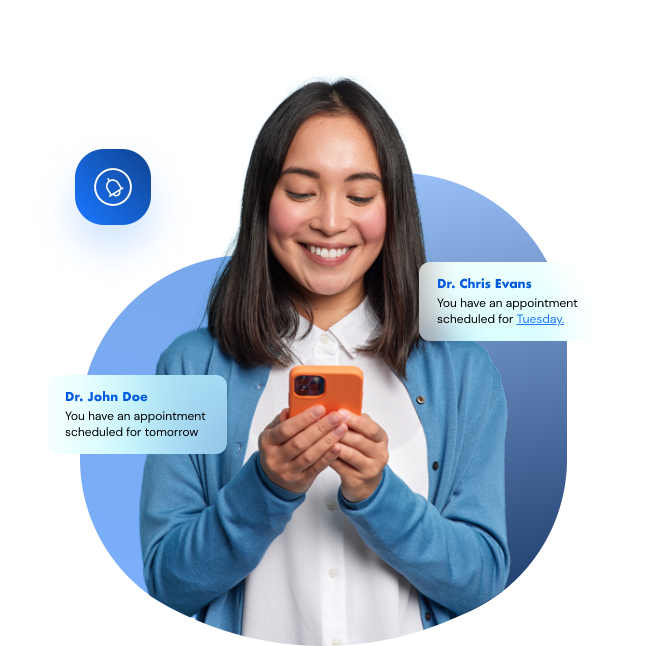
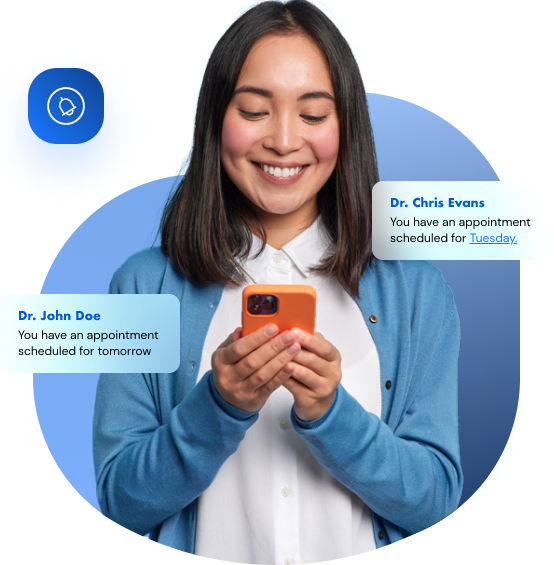
Add CSS to the title section

diff --git a/index.html b/index.html
@@ -5,6 +5,12 @@
   <meta charset="utf-8">
   <title>Doctor Website</title>
 
+  <!-- Google Fonts -->
+   <link rel="icon" href="favicon.ico">
+  <link rel="preconnect" href="https://fonts.googleapis.com">
+  <link rel="preconnect" href="https://fonts.gstatic.com" crossorigin>
+  <link href="https://fonts.googleapis.com/css2?family=DM+Sans:wght@400;700&display=swap" rel="stylesheet">
+
   <!-- CSS Stylesheets -->
   <link href="https://cdn.jsdelivr.net/npm/bootstrap@5.1.3/dist/css/bootstrap.min.css" rel="stylesheet" integrity="sha384-1BmE4kWBq78iYhFldvKuhfTAU6auU8tT94WrHftjDbrCEXSU1oBoqyl2QvZ6jIW3" crossorigin="anonymous">
   <link rel="stylesheet" href="css/styles.css">
@@ -17,43 +23,44 @@
   <script src="https://cdn.jsdelivr.net/npm/@popperjs/core@2.10.2/dist/umd/popper.min.js" integrity="sha384-7+zCNj/IqJ95wo16oMtfsKbZ9ccEh31eOz1HGyDuCQ6wgnyJNSYdrPa03rtR1zdB" crossorigin="anonymous"></script>
   <script src="https://cdn.jsdelivr.net/npm/bootstrap@5.1.3/dist/js/bootstrap.min.js" integrity="sha384-QJHtvGhmr9XOIpI6YVutG+2QOK9T+ZnN4kzFN1RtK3zEFEIsxhlmWl5/YESvpZ13" crossorigin="anonymous"></script>
 
+
 </head>
 
 <body>
-  <section id="title">
+  <section class="colored-section" id="title">
     <div class="container-fluid">
 
       <!-- Nav Bar -->
       <nav class="navbar navbar-expand-lg navbar-dark">
-        <a class="navbar-brand" href="">HIPAATEXTS.COM</a>
+        <a class="navbar-brand text-dark" href=""><i class="far fa-comment-alt"></i><strong> HIPAA</strong>TEXTS.COM</a>
+        <img class="top-img" src="Images/Mask Group 2.png" alt="mask-group 2">
         <button class="navbar-toggler" type="button" data-toggle="collapse" data-target="#navbarSupportedContent" aria-controls="navbarSupportedContent" aria-expanded="false" aria-label="Toggle navigation">
           <span class="navbar-toggler-icon"></span>
         </button>
         <div class="collapse navbar-collapse" id="navbarSupportedContent">
           <ul class="navbar-nav ml-auto">
             <li class="nav-item">
-              <a class="nav-link" href="#footer">What We Do</a>
+              <a class="nav-link text-dark" href="#footer">What We Do</a>
             </li>
             <li class="nav-item">
-              <a class="nav-link" href="#pricing">About</a>
+              <a class="nav-link text-dark" href="#pricing">About</a>
             </li>
             <li class="nav-item">
-              <a class="nav-link" href="#cta">Pricing</a>
+              <a class="nav-link text-dark" href="#cta">Pricing</a>
             </li>
           </ul>
-          <div class="vr"></div>
-          <a class="btn" href="#">Get a quote -></a>
+          <a class="nav-link btn btn-primary btn-lg rounded-pill text-light" href="#">Get a quote -></a>
         </div>
       </nav>
 
       <!-- Title -->
 
       <div class="row">
-        <div class="col-lg-6">
+        <div class="col-lg-6 title">
           <h2>HIPAATEXTS</h2>
-          <h1 class="">eliminate patient no-shows once and for all</h1>
+          <h1 class="main-heading">eliminate patient no-shows once and for all</h1>
           <p>We've got your back. We'll remind you on time</p>
-          <button type="button" class="btn btn-primary btn-lg rounded-pill">Get a quote -></button>
+          <button type="button" class="btn btn-primary btn-lg rounded-pill quote-button">Get a quote -></button>
         </div>
         <div class="col-lg-6">
           <img class="title-image" src="images/Group 18.png" alt="group18-mockUp">
@@ -64,7 +71,7 @@
   <section id="cta">
     <div class="row">
       <div class="col-lg-6">
-        <img class="title-image" src="images/Group 19.png" alt="group19-mockUp">
+        <img class="" src="images/Group 19.png" alt="group19-mockUp">
       </div>
       <div class="col-lg-6">
         <h1 class="">why hipaatexts?</h1>
@@ -83,7 +90,7 @@
   <section id="features">
     <div class="row">
       <div class="col-lg-4">
-        <img class="title-image" src="images/Group 21.png" alt="group21-mockUp">
+        <img class="" src="images/Group 21.png" alt="group21-mockUp">
       </div>
       <div class="col-lg-4">
         <h1 class="">integrating a scalable, flexible, end-to-end appointment reminder solution</h1>
@@ -95,7 +102,7 @@
         </p>
       </div>
       <div class="col-lg-4">
-        <img class="title-image" src="images/Group 20.png" alt="group20-mockUp">
+        <img class="" src="images/Group 20.png" alt="group20-mockUp">
       </div>
     </div>
   </section>

diff --git a/css/styles.css b/css/styles.css
@@ -1,0 +1,80 @@
+body{
+  margin: 0;
+  font-family: DM Sans;
+  text-align: center;
+}
+
+h2{
+  color: #2078FC;
+  font-size: 24px;
+  font-weight: bold;
+}
+
+p{
+  font-family: DM Sans;
+  color: #67707E;
+}
+
+.main-heading{
+  font-family: Futura;
+  font-weight: bold;
+  font-size: 3.5rem;
+  line-height: 1.1;
+}
+
+.colored-section{
+  background: transparent linear-gradient(180deg, #D5E6FF 0%, #FFFFFF 100%) 0 0 no-repeat padding-box;
+  color: #000;
+}
+
+
+.navbar{
+  padding: 0 0 6rem;
+}
+
+.navbar-brand{
+  font-family: Futura;
+  font-size: 2rem;
+}
+
+.nav-item{
+  padding: 0 18px;
+}
+
+.nav-link{
+  font-size: 1.2rem;
+  font-family: DM Sans, Regular;
+}
+
+
+.top-img{
+  position: absolute;
+  top:0;
+  left: 150px;
+}
+
+#title .container-fluid {
+  padding: 3% 15% 7%;
+  text-align: left;
+  line-height: 1.4;
+}
+
+.title{
+  padding-top: 7%;
+}
+
+.title-image{
+  height: 80%;
+}
+
+.download-button{
+  margin: 5% 3% 5% 0;
+}
+
+
+@media (max-width:992px) {
+
+   #title {
+     text-align: center;
+   }
+ }
